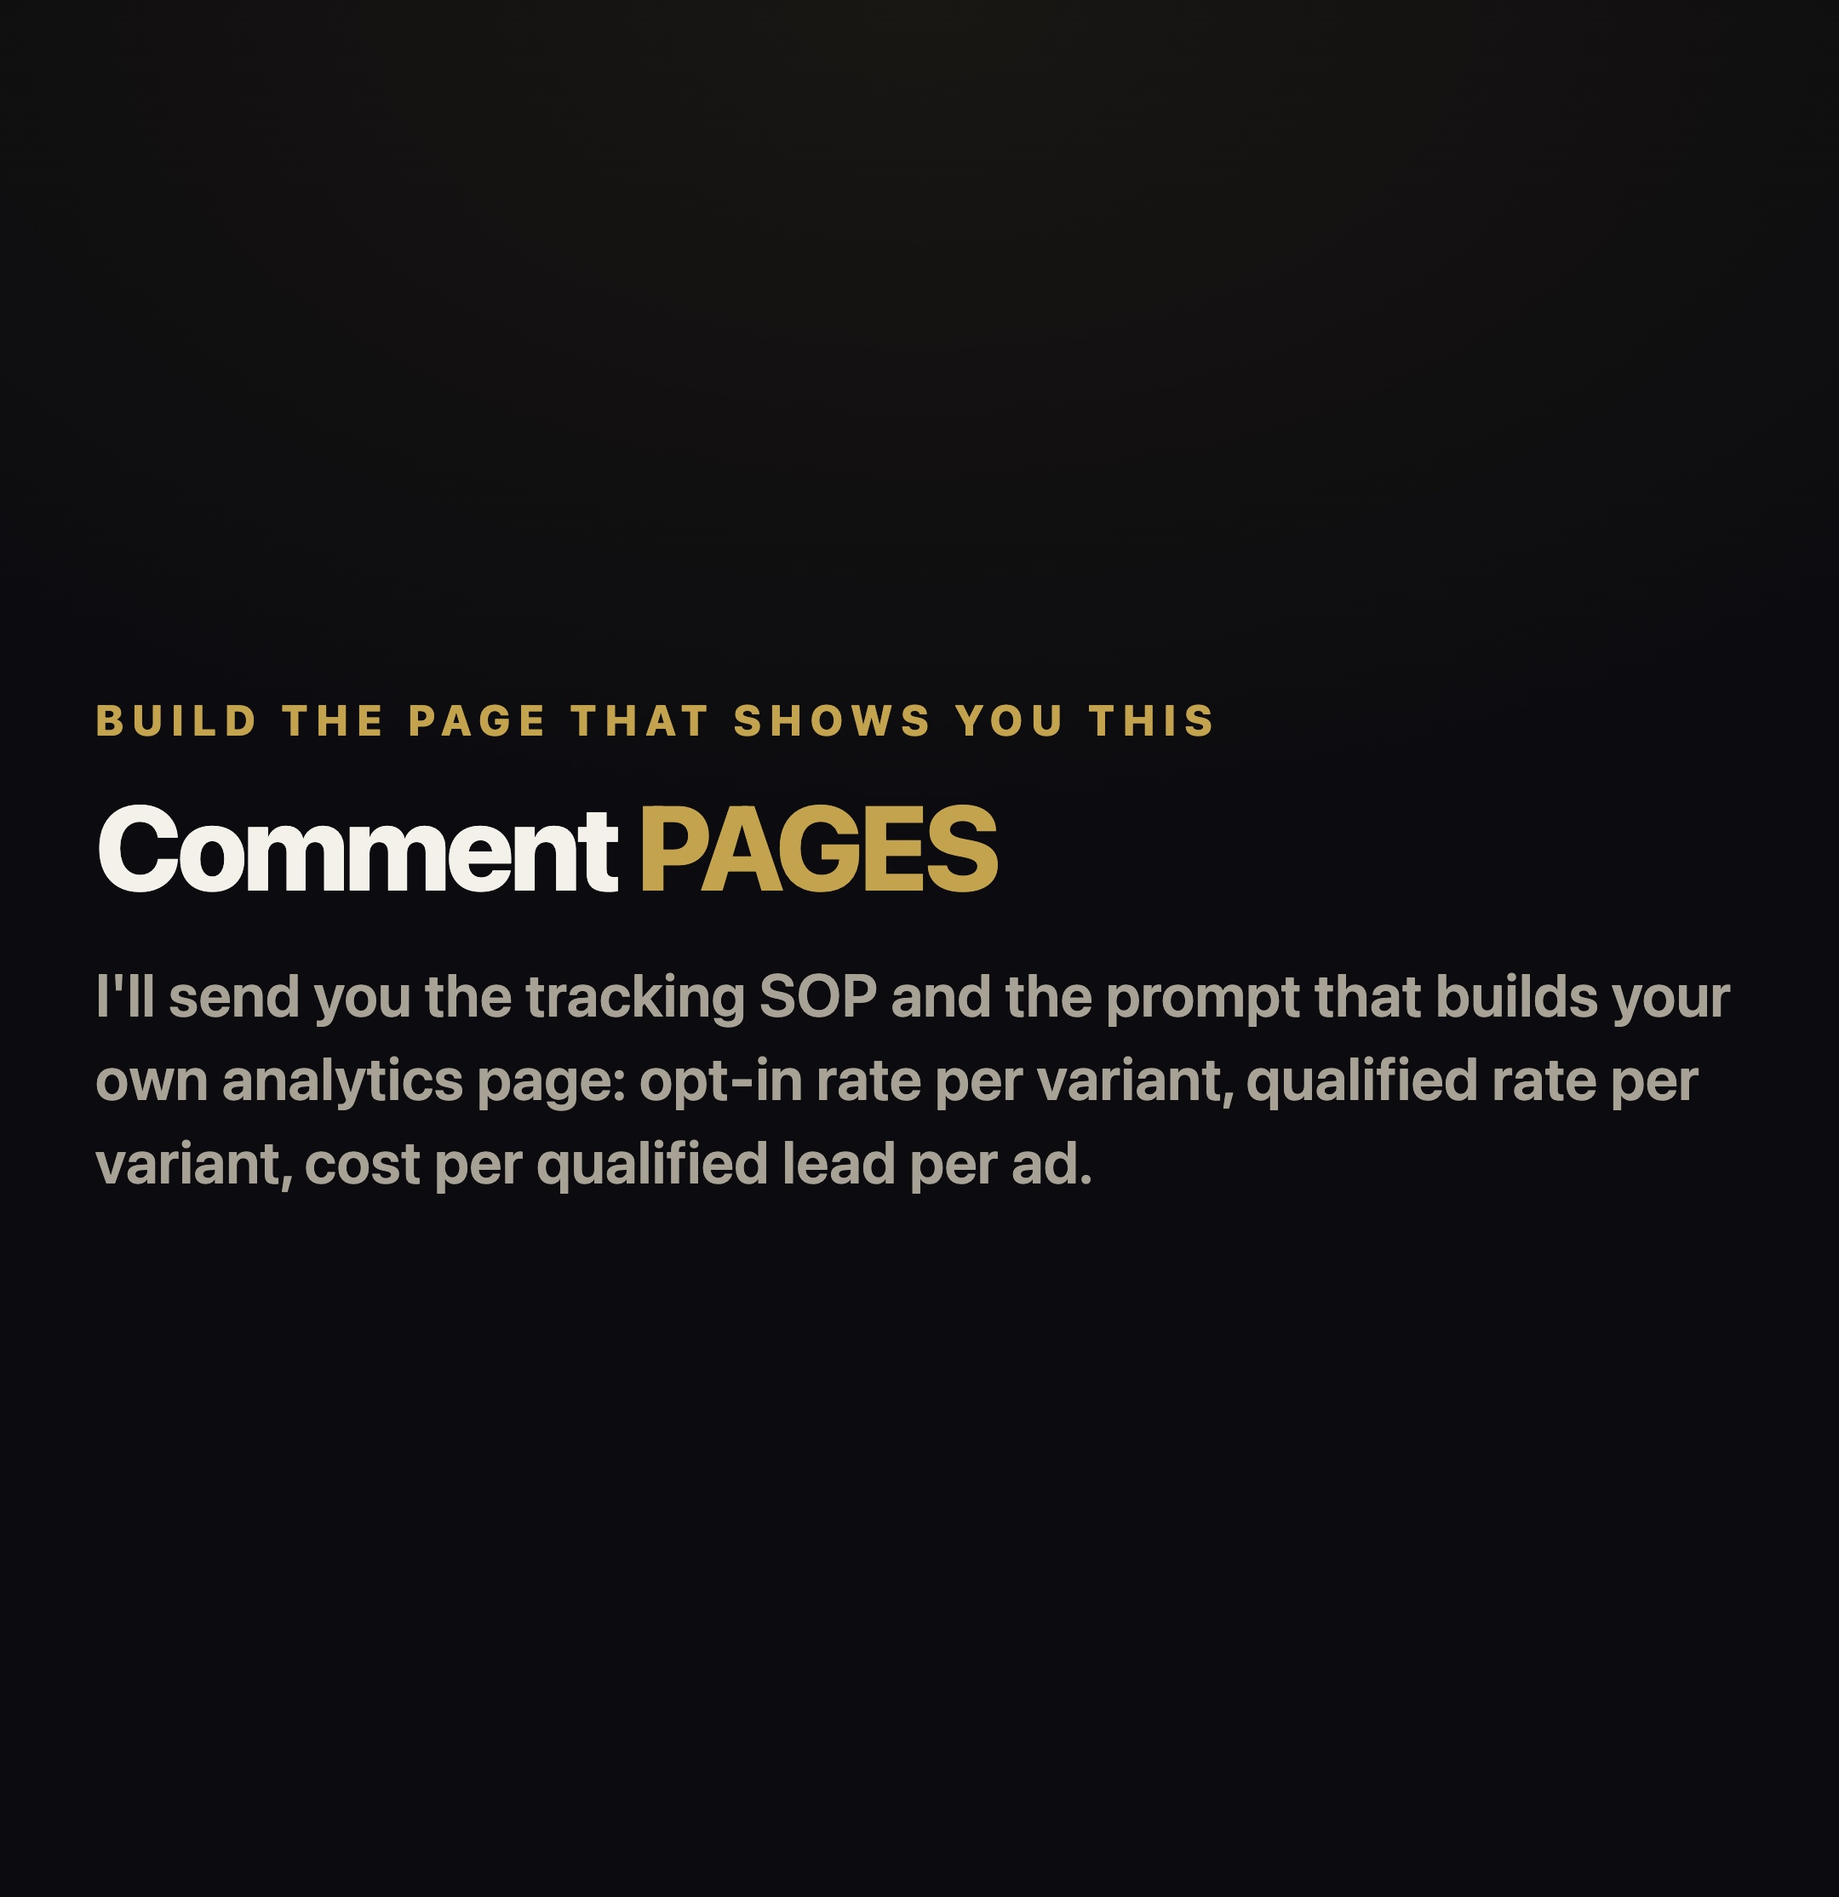
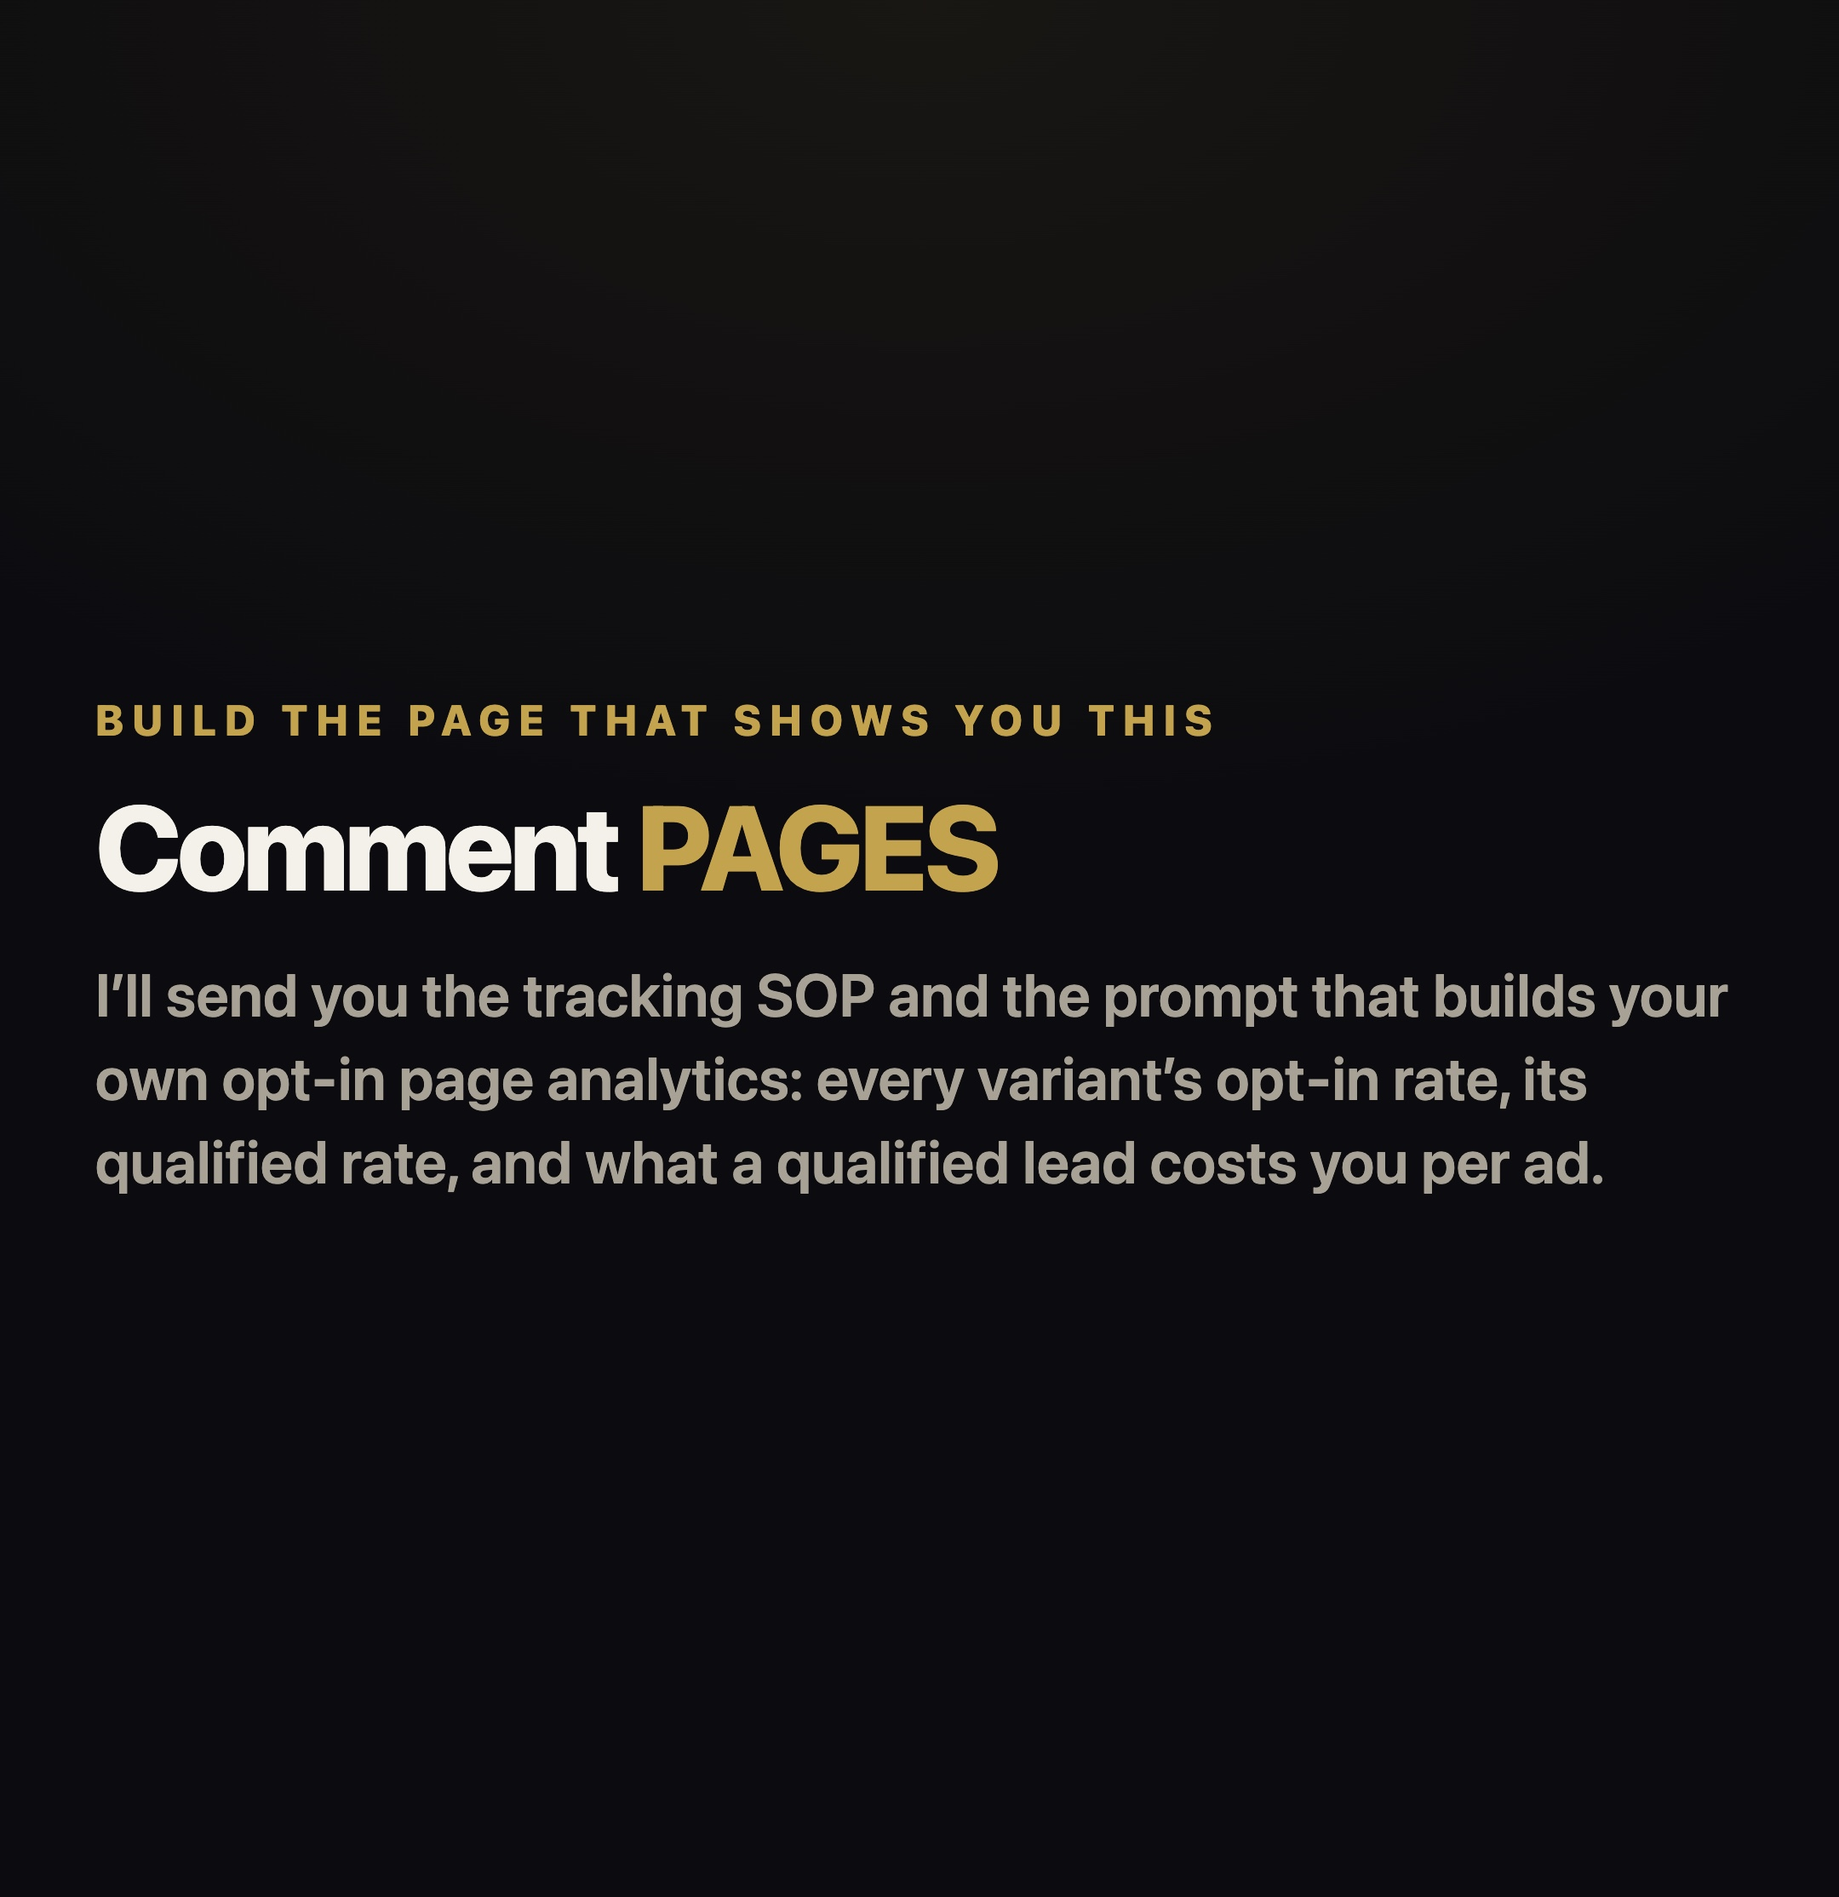
optin-rate board: restructure to hook / what most do / why wrong / what to do / CTA
Tighter copy throughout. o2 now carries the whole argument in one stat
(the entire spread is 1.9 points) and o5 reduces it to one line: you are
optimising the flat line.

Claude-Session: https://claude.ai/code/session_01JyUvhGiU74myjNDStH3gj5

Changed region(s): [[0.062, 0.4955, 0.9306, 0.6504], [0.4343, 0.4955, 0.4653, 0.5265], [0.062, 0.4955, 0.0931, 0.5265]]

diff --git a/frames-optinrate.html b/frames-optinrate.html
@@ -67,127 +67,132 @@
 </head>
 <body>
 
-<!-- o1 · hook: the exhibit, with a date -->
+<!-- o1 · HOOK: the exhibit, and the reversal, up front -->
 <div class="f" id="o1">
-  <div class="eb">Seven opt-in pages · one launch · 8 Sep 2026</div>
-  <h1>The page that <span>won</span> on opt-in rate came <em>last</em> on quality.</h1>
-  <div class="sub">Same traffic, same week, same splitter. If I had picked the winner the way everyone picks it, I would have kept the worst page in the test.</div>
-</div>
-
-<!-- o2 · what everyone does -->
-<div class="f" id="o2">
-  <div class="eb">How everyone ranks them</div>
-  <h1 class="sm">Opt-in rate</h1>
-  <div class="chart" style="margin-top:34px">
-    <div class="row"><div class="lbl">Money qualifier</div><div class="track"><div class="fill" style="width:94.5%"><div class="solid"></div></div></div><div class="val">18.9%<i>KEEP</i></div></div>
+  <div class="eb">Five opt-in pages &middot; one launch &middot; 8 Sep 2026</div>
+  <h1 class="sm">The best page in this test is the one you would have <em>switched off</em>.</h1>
+  <div class="chart" style="margin-top:38px">
+    <div class="row"><div class="lbl">Money qualifier</div><div class="track"><div class="fill" style="width:94.5%"><div class="solid"></div></div></div><div class="val">18.9%</div></div>
     <div class="row"><div class="lbl">Liver</div><div class="track"><div class="fill" style="width:88.0%"><div class="solid"></div></div></div><div class="val">17.6%</div></div>
     <div class="row"><div class="lbl">Gut</div><div class="track"><div class="fill" style="width:86.5%"><div class="solid"></div></div></div><div class="val">17.3%</div></div>
     <div class="row"><div class="lbl">Parasites</div><div class="track"><div class="fill" style="width:86.0%"><div class="solid"></div></div></div><div class="val">17.2%</div></div>
-    <div class="row dead"><div class="lbl">Control</div><div class="track"><div class="fill" style="width:85.0%"><div class="solid"></div></div></div><div class="val">17.0%<i>KILL</i></div></div>
+    <div class="row dead"><div class="lbl">Control</div><div class="track"><div class="fill" style="width:85.0%"><div class="solid"></div></div></div><div class="val">17.0%<i>LAST</i></div></div>
   </div>
-  <div class="note">4,262 views across the five arms. Top to bottom, the whole spread is 1.9 points.</div>
+  <div class="note">Same offer, same traffic, same week, one split test. Ranked the way everybody ranks them.</div>
 </div>
 
-<!-- o3 · the same pages, ranked on who actually qualified -->
+<!-- o2 · WHAT MOST PEOPLE DO -->
+<div class="f" id="o2">
+  <div class="eb">What everyone does</div>
+  <h1 class="sm">Rank by opt-in rate.<br>Keep the top. Kill the bottom.</h1>
+  <div style="margin-top:52px;display:flex;align-items:baseline;gap:26px">
+    <div style="font-family:var(--mono);font-size:150px;font-weight:800;color:var(--gold);letter-spacing:-.04em;line-height:1">1.9</div>
+    <div style="font-size:42px;font-weight:800;color:var(--mut)">points</div>
+  </div>
+  <div class="sub" style="margin-top:18px">Top page to bottom page, that is the entire spread. Across 4,262 views. That is what the decision gets made on.</div>
+  <div class="note">Third test in a row where changing the headline barely moved this number.</div>
+</div>
+
+<!-- o3 · WHY IT IS WRONG, part one: the flip -->
 <div class="f" id="o3">
-  <div class="eb">The same five pages · ranked on qualified</div>
-  <h1 class="sm">Qualified rate</h1>
-  <div class="chart" style="margin-top:34px">
+  <div class="eb">The same five pages &middot; ranked on who qualified</div>
+  <h1 class="sm">Exactly <span>upside down</span>.</h1>
+  <div class="chart" style="margin-top:38px">
     <div class="row"><div class="lbl">Control</div><div class="track"><div class="fill" style="width:97%"><div class="solid"></div></div></div><div class="val">29.1%</div></div>
     <div class="row"><div class="lbl">Liver</div><div class="track"><div class="fill" style="width:90%"><div class="solid"></div></div></div><div class="val">27.0%</div></div>
     <div class="row"><div class="lbl">Gut</div><div class="track"><div class="fill" style="width:83%"><div class="solid"></div></div></div><div class="val">24.8%</div></div>
     <div class="row"><div class="lbl">Parasites</div><div class="track"><div class="fill" style="width:70%"><div class="solid"></div></div></div><div class="val">20.9%</div></div>
     <div class="row dead"><div class="lbl">Money qualifier</div><div class="track"><div class="fill" style="width:51%"><div class="solid"></div></div></div><div class="val">15.3%</div></div>
   </div>
-  <div class="note">Exactly upside down. The page I was about to switch off is the one producing the buyers.</div>
+  <div class="note">The page that won on opt-in rate came last on quality. The one at the bottom is producing the buyers.</div>
 </div>
 
-<!-- o4 · the head to head, one bar each, gold = qualified -->
+<!-- o4 · WHY IT IS WRONG, part two: the head to head -->
 <div class="f" id="o4">
-  <div class="eb">Head to head · same 1,666 views</div>
-  <h1 class="sm">1.9 points lower.<br><span>Nearly twice</span> the qualified leads.</h1>
-  <div class="chart" style="margin-top:38px">
+  <div class="eb">Head to head &middot; 795 views against 871</div>
+  <h1 class="sm">1.9 points fewer opt-ins.<br><span>Nearly twice</span> the qualified leads.</h1>
+  <div class="chart" style="margin-top:40px">
     <div class="row"><div class="lbl">Money qualifier</div><div class="track"><div class="fill" style="width:94.5%"><div class="qual" style="width:15.3%"></div><div class="rest" style="width:84.7%"></div></div></div><div class="val">23<i>QUALIFIED</i></div></div>
     <div class="row"><div class="lbl">Control</div><div class="track"><div class="fill" style="width:85.0%"><div class="qual" style="width:29.1%"></div><div class="rest" style="width:70.9%"></div></div></div><div class="val">43<i>QUALIFIED</i></div></div>
   </div>
   <div class="key"><span class="k1"><i></i>Qualified</span><span class="k2"><i></i>Everyone else</span></div>
-  <div class="note">Bar length is the opt-in rate. The shorter bar has more gold in it. 795 views against 871.</div>
+  <div class="note">Bar length is the opt-in rate. The shorter bar has more gold in it.</div>
 </div>
 
-<!-- o5 · why the usual number is the wrong one -->
+<!-- o5 · WHY IT IS WRONG, the sentence it all reduces to -->
 <div class="f" id="o5">
-  <div class="eb">Why the usual number cannot tell you</div>
+  <div class="eb">Why that number cannot tell you</div>
   <div class="cols">
     <div class="col">
       <div class="ct">Opt-in rate moved</div>
-      <div class="cv">1.9<span style="font-size:32px">pts</span></div>
-      <div class="cs">Across 4,262 views. Third straight test where the headline barely moved it.</div>
+      <div class="cv">1.9<span style="font-size:30px">pts</span></div>
+      <div class="cs">Across 4,262 views. Close to flat.</div>
     </div>
     <div class="col good">
       <div class="ct">Quality moved</div>
-      <div class="cv">1.9<span style="font-size:32px">x</span></div>
-      <div class="cs">15.3% to 29.1% qualified, on the same pages, in the same week.</div>
+      <div class="cv">1.9<span style="font-size:30px">x</span></div>
+      <div class="cs">15.3% to 29.1% qualified. Same pages, same week.</div>
     </div>
   </div>
-  <h1 class="xs" style="margin-top:44px">The number you are optimising barely moves. The one you are not measuring nearly doubles.</h1>
+  <h1 class="sm" style="margin-top:50px">You are optimising the <span>flat line</span>.</h1>
 </div>
 
-<!-- o6 · the confession, with a date -->
+<!-- o6 · and I did it too, with a date -->
 <div class="f" id="o6">
-  <div class="eb">The one I got wrong · 6 Sep 2026</div>
+  <div class="eb">I did it myself &middot; 6 Sep 2026</div>
   <h1 class="sm">I switched off the cheapest qualified lead on the account.</h1>
-  <div class="cols" style="margin-top:36px">
+  <div class="cols" style="margin-top:38px">
     <div class="col">
-      <div class="ct">Ad 4 · kept</div>
+      <div class="ct">Ad 4 &middot; kept</div>
       <div class="cv">20.9%</div>
       <div class="cs">opt-in rate<br><b style="color:#f4f1ea">&pound;11.85</b> per qualified lead</div>
     </div>
     <div class="col good">
-      <div class="ct">Ad 3 · killed</div>
+      <div class="ct">Ad 3 &middot; killed</div>
       <div class="cv">12.4%</div>
       <div class="cs">opt-in rate<br><b style="color:var(--gold)">&pound;10.45</b> per qualified lead</div>
     </div>
   </div>
-  <div class="note">I had already written down that opt-in rate was the wrong yardstick, and then used it anyway.</div>
+  <div class="note">I had already written down that opt-in rate was the wrong yardstick. Then I used it anyway.</div>
 </div>
 
-<!-- o7 · what I will not claim -->
+<!-- o7 · the honesty beat -->
 <div class="f" id="o7">
   <div class="eb">What I will not claim</div>
   <h1 class="sm">This is a pattern on one account. It is not a law.</h1>
   <ul class="steps" style="margin-top:34px">
     <li><b>01</b><div>One client, one ad account, three launches<small>Whether it holds anywhere else is still an open question in our own notes.</small></div></li>
-    <li><b>02</b><div>Ad 3 spent &pound;178 against Ad 4's &pound;1,647<small>Seventeen qualified leads. Directional, not proof.</small></div></li>
-    <li><b>03</b><div>This chain stops at qualified<small>We do not yet have buyer numbers page by page. I will post them when we do.</small></div></li>
+    <li><b>02</b><div>Ad 3 spent &pound;178 against Ad 4&rsquo;s &pound;1,647<small>Seventeen qualified leads. Directional, not proof.</small></div></li>
+    <li><b>03</b><div>This chain stops at qualified<small>No buyer numbers page by page yet. When I have them I will post them either way.</small></div></li>
   </ul>
 </div>
 
-<!-- o8 · what to track instead -->
+<!-- o8 · WHAT TO DO INSTEAD -->
 <div class="f" id="o8">
-  <div class="eb">Track these three instead</div>
-  <ul class="steps" style="margin-top:8px">
-    <li><b>01</b><div>Qualified rate, per page<small>Not opt-ins. The share of them that match who you can actually sell to.</small></div></li>
+  <div class="eb">What to track instead</div>
+  <ul class="steps" style="margin-top:6px">
+    <li><b>01</b><div>Qualified rate, per page<small>Not how many opted in. What share of them match who you can actually sell to.</small></div></li>
     <li><b>02</b><div>Cost per qualified registration, per ad<small>Ours ran &pound;8.00 on one launch and &pound;11.02 on the next. Cost per lead said the opposite both times.</small></div></li>
-    <li><b>03</b><div>Both of them side by side, per variant<small>One page can win the first and lose the second. That is the whole point.</small></div></li>
+    <li><b>03</b><div>Both, side by side, per variant<small>A page can win the first and lose the second. That is the only view that tells you what to switch off.</small></div></li>
   </ul>
 </div>
 
-<!-- o9 · the one build rule that decides whether you get the data at all -->
+<!-- o9 · the build rule that decides whether the data exists at all -->
 <div class="f" id="o9">
-  <div class="eb">The rule that decides whether you get the data</div>
+  <div class="eb">The build rule none of it works without</div>
   <h1 class="sm">Ask the qualifying question <span>after</span> they are registered. Never in front of it.</h1>
-  <div class="chart" style="margin-top:40px">
+  <div class="chart" style="margin-top:42px">
     <div class="row"><div class="lbl">Reached the form</div><div class="track"><div class="fill" style="width:100%"><div class="solid"></div></div></div><div class="val">948</div></div>
     <div class="row dead"><div class="lbl">Never came back</div><div class="track"><div class="fill" style="width:46.8%"><div class="solid"></div></div></div><div class="val">444</div></div>
   </div>
-  <div class="note">46.8% of them. We gated registration behind the question instead of putting it on the thank-you page, and lost nearly half the room to find out who they were.</div>
+  <div class="note">We put it in front. 46.8% of the room left to answer it. Put it on the thank-you page and you keep them and still learn who they are.</div>
 </div>
 
 <!-- o10 · CTA -->
 <div class="f" id="o10">
   <div class="eb">Build the page that shows you this</div>
   <h1 class="sm">Comment <span>PAGES</span></h1>
-  <div class="sub">I'll send you the tracking SOP and the prompt that builds your own analytics page: opt-in rate per variant, qualified rate per variant, cost per qualified lead per ad.</div>
+  <div class="sub">I&rsquo;ll send you the tracking SOP and the prompt that builds your own opt-in page analytics: every variant&rsquo;s opt-in rate, its qualified rate, and what a qualified lead costs you per ad.</div>
 </div>
 
 </body>
